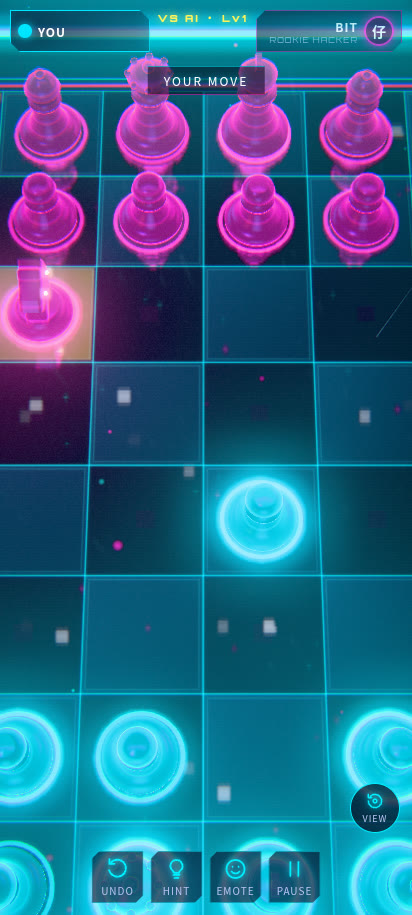
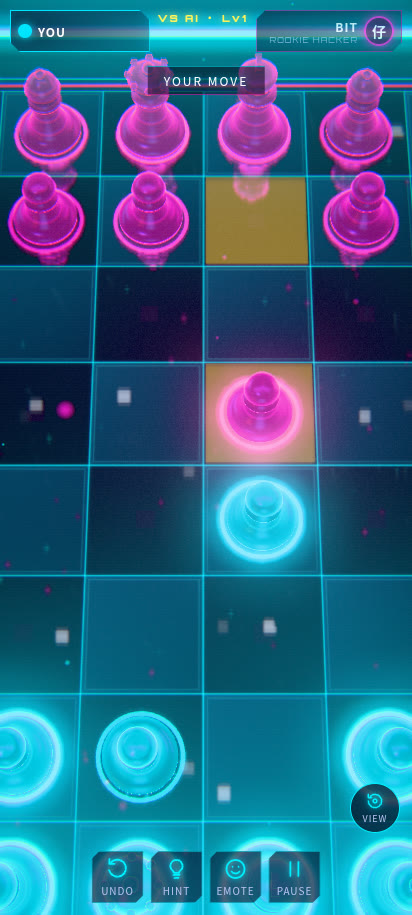
v1.2 camera: one-finger drag rotates/tilts (tap still moves), pinch zoom + two-finger pan, twist bonus, left-drag on desktop; new tip text

diff --git a/js/view.js b/js/view.js
@@ -1,6 +1,6 @@
-// Player camera control for play: pinch zoom, twist / two-finger drag orbit, mouse wheel + right/ctrl-drag,
-// with hard clamps, critically-damped smoothing and a strict tap-vs-gesture classifier so one-finger taps
-// keep selecting / moving pieces. THREE-free (pure state + DOM) so the clamp maths is unit-testable in node.
+// Player camera control for play: ONE-finger drag = orbit (horizontal → azimuth, vertical → tilt), two fingers =
+// pinch zoom + drag pan (+ twist rotate as a bonus), mouse left/right/ctrl-drag = orbit, wheel = zoom, with hard
+// clamps, exponential smoothing and a strict tap-vs-drag classifier so quick taps keep selecting / moving pieces. THREE-free (pure state + DOM) so the clamp maths is unit-testable in node.
 //
 // State is an *offset* on top of the auto-framed rig in main.js:
 //   zoom  multiplier on the fitted distance (1 = whole board framed, < 1 = closer)
@@ -45,6 +45,7 @@ export const isDefaultView = (v, eps = 0.01) => Math.abs(v.zoom - 1) < eps && Ma
  * h.tap(x, y, e)                  a clean one-finger / left-click tap (never fired for gestures)
  * h.zoom(factor, x, y)            multiply zoom (factor < 1 = closer), anchored at screen point
  * h.twist(dRad, x, y)             rotate about the screen point (fingers' rotation)
+ * h.pan(x0, y0, x1, y1)           move the board point under (x0,y0) to (x1,y1) (two-finger drag)
  * h.orbit(dAz, dEl)               orbit around the look target
  * h.gesture(active)               gesture started / ended (for UI, e.g. reveal the reset button)
  * h.down(e)                       any pointerdown (audio unlock)
@@ -67,6 +68,7 @@ export class ViewInput {
     const now = performance.now();
     this.pts.set(e.pointerId, { x: e.clientX, y: e.clientY, x0: e.clientX, y0: e.clientY, t0: now, type: e.pointerType, btn: e.button, mods: e.ctrlKey || e.metaKey });
     if (this.pts.size === 1) {
+      // left button / one finger: tap until it moves past the slop, then orbit. Right / Ctrl-drag: orbit straight away.
       const orbitBtn = e.pointerType === 'mouse' && (e.button === 2 || (e.button === 0 && (e.ctrlKey || e.metaKey)));
       this.mode = orbitBtn ? 'orbit-pending' : (e.pointerType === 'mouse' && e.button !== 0 ? 'ignore' : 'tap');
     } else if (this.pts.size === 2) {
@@ -84,7 +86,7 @@ export class ViewInput {
     const px = p.x, py = p.y; p.x = e.clientX; p.y = e.clientY;
     if (this.mode === 'tap') {
       const slop = p.type === 'mouse' ? TAP.mouseSlop : TAP.touchSlop;
-      if (Math.hypot(p.x - p.x0, p.y - p.y0) > slop) { this.mode = 'drag1'; this.stats.cancelledTaps++; }   // one-finger drag: no camera move, no tap
+      if (Math.hypot(p.x - p.x0, p.y - p.y0) > slop) { this.mode = 'orbit'; this.stats.cancelledTaps++; this.begin(); }   // drag → orbit, never a tap
     } else if (this.mode === 'orbit-pending' || this.mode === 'orbit') {
       if (this.mode === 'orbit-pending' && Math.hypot(p.x - p.x0, p.y - p.y0) > 3) { this.mode = 'orbit'; this.begin(); }
       if (this.mode === 'orbit' && this.h.enabled()) this.h.orbit(-(p.x - px) * GESTURE.orbitPerPx, (p.y - py) * GESTURE.tiltPerPx);
@@ -98,7 +100,7 @@ export class ViewInput {
       if (this.h.enabled()) {
         if (P.zoomOn && d > 1 && P.d > 1) this.h.zoom(P.d / d, m.x, m.y);
         if (P.twistOn) this.h.twist(wrap(an - P.a), m.x, m.y);
-        if (P.dragOn) this.h.orbit(-(m.x - P.m.x) * GESTURE.orbitPerPx, (m.y - P.m.y) * GESTURE.tiltPerPx);
+        if (P.dragOn) this.h.pan(P.m.x, P.m.y, m.x, m.y);
       }
       P.d = d; P.a = an; P.m = m;
     }
@@ -114,9 +116,9 @@ export class ViewInput {
       if (now >= this.suppressUntil && now - p.t0 <= TAP.maxMs) { this.stats.taps++; this.h.tap(e.clientX, e.clientY, e); }
       return;
     }
-    if (this.mode === 'pinch' || this.mode === 'ignore-multi') this.suppressUntil = now + TAP.afterGestureMs;
+    if (this.mode === 'pinch' || this.mode === 'ignore-multi' || this.mode === 'orbit') this.suppressUntil = now + TAP.afterGestureMs;
     if (this.pts.size === 0) { this.mode = 'idle'; this.end(); }
-    else if (this.mode === 'pinch') this.mode = 'ignore-multi';   // one finger left after a pinch: never becomes a tap
+    else if (this.mode === 'pinch') this.mode = 'ignore-multi';   // one finger left after a pinch: never becomes a tap or orbit
     else if (this.mode === 'ignore-multi' && this.pts.size === 2) this.startPinch();
   }
   onCancel(e) { this.pts.delete(e.pointerId); if (this.pts.size === 0) { this.mode = 'idle'; this.end(); } else this.mode = 'ignore-multi'; }

diff --git a/js/strings.js b/js/strings.js
@@ -19,7 +19,7 @@ addStrings({
   sound: ['音效', 'SOUND'], music: ['音樂', 'MUSIC'], haptics: ['震動', 'HAPTICS'], hints: ['提示落點', 'MOVE HINTS'], rotate2p: ['雙人時轉棋盤', 'ROTATE BOARD IN 2P'], on: ['開', 'ON'], off: ['關', 'OFF'],
   privacy: ['私隱政策', 'Privacy'],
   resetView: ['重設視角', 'Reset view'], resetViewShort: ['視角', 'VIEW'],
-  viewTip: ['雙指縮放 · 扭轉旋轉棋盤', 'Pinch to zoom · twist to rotate the board'],
+  viewTip: ['雙指縮放 · 單指拖動旋轉', 'Pinch to zoom · drag to rotate'],
   paused: ['已暫停', 'PAUSED'], resume: ['繼續', 'RESUME'], restart: ['重新開始', 'RESTART'], quit: ['離開', 'QUIT'],
   you: ['你', 'YOU'], p1: ['玩家一', 'PLAYER 1'], p2: ['玩家二', 'PLAYER 2'], player: ['玩家 {n}', 'PLAYER {n}'], ai: ['電腦', 'AI'],
   yourTurn: ['到你', 'YOUR MOVE'], turnOf: ['{n} 嘅回合', "{n}'S TURN"], thinking: ['{n} 諗緊…', '{n} IS THINKING…'],

diff --git a/js/main.js b/js/main.js
@@ -208,6 +208,10 @@ const viewInput = new ViewInput($('scene'), {
   down: () => { audio.init(); if (settings.music) audio.startMusic(); },
   zoom: (f, x, y) => anchored(x, y, () => { view.zoom *= f; }),
   twist: (d, x, y) => anchored(x, y, () => { view.az += d; }),
+  pan: (x0, y0, x1, y1) => {            // two-finger drag: the board point under the fingers follows them (only while zoomed in)
+    const c = targetCam(), a = groundUnder(c, x0, y0), b = groundUnder(c, x1, y1);
+    if (a && b) { view.px += a.x - b.x; view.pz += a.z - b.z; clampView(view, cam.pitch, extOf(board.kind || 'chess')); }
+  },
   orbit: (dAz, dEl) => { view.az += dAz; view.el += dEl; clampView(view, cam.pitch, extOf(board.kind || 'chess')); },
   gesture: (on) => { if (on) hideEmotes(); },
   tap: (x, y) => {

diff --git a/tests/view.py b/tests/view.py
@@ -1,5 +1,5 @@
 """CYBER BOARD camera-control test — headless Chrome, real CDP touch events at 412x915 and mouse/wheel at 1280x800.
-Pinch / twist / two-finger drag clamps, tap-vs-gesture separation, taps still move pieces in all four games
+One-finger drag orbit / pinch zoom / two-finger pan / twist clamps, tap-vs-drag separation, taps still move pieces in all four games
 (incl. tapping a piece's head), reset-view button, battle save/restore of the view. Fails on any console error.
 
     python -m http.server <port>   # from the repo root
@@ -104,11 +104,17 @@ def mobile(p):
     print('     sel after e2 tap:', sel, 'stats', V(pg)['stats'], 'moves', pg.evaluate('__board.ctrl.pos.moves.map(m => m.san).join(" ")'))
     check(pg.evaluate('__board.ctrl.pos.moves.length') >= 1 and pg.evaluate('__board.ctrl.pos.moves[0].san') == 'e4', 'touch taps (8 px jitter) move e2-e4')
     idle(pg)
-    # one-finger drag: no camera move, no tap
+    # one-finger drag = orbit (never a tap / move): start the drag ON a white pawn so a tap would have selected it
     fen = pg.evaluate('__board.fen()'); taps0 = V(pg)['stats']['taps']
-    T.drag1(200, 500, 60, -40); time.sleep(0.3)
+    d2 = pg.evaluate('__board.cellScreen(84)')
+    T.drag1(d2['x'], d2['y'], 120, 0); time.sleep(0.3)
     v = V(pg)['target']
-    check(V(pg)['stats']['taps'] == taps0 and abs(v['zoom'] - 1) < EPS and abs(v['az']) < EPS and pg.evaluate('__board.fen()') == fen, 'one-finger drag = no tap and no camera move')
+    check(V(pg)['stats']['taps'] == taps0 and v['az'] < -0.3 and abs(v['el']) < EPS and pg.evaluate('__board.fen()') == fen and pg.evaluate('__board.ctrl.sel') < 0,
+          f"one-finger horizontal drag rotates (az {math.degrees(v['az']):.0f}°), no tap / selection / move")
+    T.drag1(206, 520, 0, 80); time.sleep(0.3); v2 = V(pg)['target']
+    check(v2['el'] > 0.1 and abs(v2['az'] - v['az']) < EPS and V(pg)['stats']['taps'] == taps0, f"one-finger vertical drag tilts (el +{math.degrees(v2['el']):.0f}°), no tap")
+    settle(pg); pg.screenshot(path=f'{OUT}/mob_view_after_drag_rotate.png')
+    pg.evaluate('__board.resetView(true)'); settle(pg)
     # pinch out (zoom in) toward the board centre
     c = pg.evaluate('__board.screenAt(0,0,0)')
     T.pinch(c['x'], c['y'], 80, 260); settle(pg)
@@ -138,31 +144,40 @@ def mobile(p):
     tap_cell(pg, T, 76); time.sleep(0.8)
     check(pg.evaluate('__board.ctrl.pos.moves.length') == n0 + 1 and pg.evaluate('__board.ctrl.pos.moves[-1] ? 0 : __board.ctrl.pos.moves[__board.ctrl.pos.moves.length-1].san') == 'Nf3', 'zoomed: tap g1 → f3 plays Nf3')
     idle(pg)
-    # twist: clamp ±azMax
+    # two-finger twist (bonus) still rotates
     pg.evaluate('__board.resetView(true)'); settle(pg)
     T.twist(206, 480, 70, 0, 0.6); v = V(pg)['target']
-    check(v['az'] > 0.4, f"twist rotates (az {math.degrees(v['az']):.0f}°)")
-    for _ in range(4): T.twist(206, 480, 70, 0, 1.2)
+    check(v['az'] > 0.4, f"two-finger twist rotates (az {math.degrees(v['az']):.0f}°)")
+    # one-finger drags: azimuth clamps ±azMax
+    for _ in range(4): T.drag1(60, 520, 300, 0)
     settle(pg); v = V(pg)['target']
-    check(abs(v['az'] - L['azMax']) < 1e-3, f"azimuth clamps at +{math.degrees(L['azMax']):.0f}° (got {math.degrees(v['az']):.1f}°)")
+    check(abs(v['az'] + L['azMax']) < 1e-3, f"drag: azimuth clamps at -{math.degrees(L['azMax']):.0f}° (got {math.degrees(v['az']):.1f}°)")
     pg.screenshot(path=f'{OUT}/mob_view_after_twist.png')
-    for _ in range(8): T.twist(206, 480, 70, 0, -1.2)
+    for _ in range(8): T.drag1(360, 520, -300, 0)
     settle(pg); v = V(pg)['target']
-    check(abs(v['az'] + L['azMax']) < 1e-3, f"azimuth clamps at -{math.degrees(L['azMax']):.0f}°")
-    # two-finger vertical drag: tilt clamps
-    for _ in range(5): T.drag2(206, 600, 0, -260)
+    check(abs(v['az'] - L['azMax']) < 1e-3, f"drag: azimuth clamps at +{math.degrees(L['azMax']):.0f}°")
+    for _ in range(4): T.drag1(60, 520, 300, 0)
+    # one-finger vertical drags: tilt clamps
+    for _ in range(5): T.drag1(206, 760, 0, -400)
     settle(pg); v = V(pg)
     check(abs(v['absPitch'] - L['pitchMin']) < 2e-3, f"tilt clamps at {math.degrees(L['pitchMin']):.0f}° elevation (got {math.degrees(v['absPitch']):.1f}°)")
     pg.screenshot(path=f'{OUT}/mob_view_after_lowtilt.png')
     pm = pg.evaluate('__board.pickMatrix()'); print('     tap-target matrix (34° low tilt, az -70°):', pm['total'], 'spots, misses', pm['miss'][:8])
     check(len(pm['miss']) <= pm['total'] * 0.03, 'low-tilt rotated view: ≥ 97 % of tap spots pick their own cell')
-    for _ in range(6): T.drag2(206, 300, 0, 300)
+    for _ in range(6): T.drag1(206, 300, 0, 400)
     settle(pg); v = V(pg)
     check(abs(v['absPitch'] - L['pitchMax']) < 2e-3, f"tilt clamps at {math.degrees(L['pitchMax']):.0f}° (never flips; got {math.degrees(v['absPitch']):.1f}°)")
     pm = pg.evaluate('__board.pickMatrix()'); print('     tap-target matrix (84° top-down, az -70°):', pm['total'], 'spots, misses', pm['miss'][:8])
     check(not pm['miss'], 'top-down rotated view: tap-target matrix clean')
     cy = pg.evaluate('__board.cam()')[0][1]
     check(cy > 0.5, 'camera stays above the board')
+    # two-finger drag pans only while zoomed in
+    pg.evaluate('__board.resetView(true)'); settle(pg)
+    T.drag2(206, 500, 120, 0); v = V(pg)['target']
+    check(abs(v['px']) < EPS and abs(v['pz']) < EPS and abs(v['az']) < EPS, 'two-finger drag at the fit zoom: no pan, no rotation')
+    pg.evaluate('__board.setView({zoom:0.5})'); settle(pg)
+    T.drag2(206, 500, 120, 60); v = V(pg)['target']
+    check(math.hypot(v['px'], v['pz']) > 0.5 and abs(v['az']) < EPS, f"two-finger drag pans while zoomed (pan {v['px']:.2f},{v['pz']:.2f}), no rotation")
     # pinch in: clamps at max distance, pan recentres
     for _ in range(4): T.pinch(206, 480, 360, 60)
     settle(pg); v = V(pg)['target']
@@ -252,6 +267,12 @@ def desktop(p):
     check(abs(V(pg)['target']['zoom'] - L['zoomMax']) < 1e-3, 'wheel zoom clamps at max')
     pg.evaluate('__board.resetView(true)')
     fen = pg.evaluate('__board.fen()'); taps0 = V(pg)['stats']['taps']
+    e2 = pg.evaluate('__board.cellScreen(85)')     # left-drag starting on a pawn: rotates, never selects / moves
+    pg.mouse.move(e2['x'], e2['y']); pg.mouse.down()
+    for k in range(1, 9): pg.mouse.move(e2['x'] + 25 * k, e2['y'] - 5 * k)
+    pg.mouse.up(); v = V(pg)['target']
+    check(v['az'] < -0.5 and V(pg)['stats']['taps'] == taps0 and pg.evaluate('__board.ctrl.sel') < 0 and pg.evaluate('__board.fen()') == fen, f"left-drag rotates (az {math.degrees(v['az']):.0f}°), no selection / move")
+    pg.evaluate('__board.resetView(true)'); time.sleep(0.4)
     pg.mouse.move(640, 400); pg.mouse.down(button='right')
     for k in range(10): pg.mouse.move(640 + 30 * k, 400 + 6 * k)
     pg.mouse.up(button='right'); v = V(pg)['target']

diff --git a/docs/HANDOFF.md b/docs/HANDOFF.md
@@ -28,13 +28,15 @@ zh-HK first + English, endless mode, ads only at natural breaks, Three.js r169 +
 * Extras: check alert (king ring + shockwave + SFX + AI taunt), checkmate drama (slow-mo, glitch, king shatters, red pillar,
   banner), promotion picker (♛♜♝♞), last-move tiles, legal-move dots / capture rings (toggle 提示落點), hint (green), undo,
   local 2P with auto table rotation for chess/xiangqi (toggle 雙人時轉棋盤), piece idle bob, selected lift.
-* **Player camera (v1.1, `js/view.js` + rig in `js/main.js`)** — during play in all four games:
-  * Touch: **pinch** = zoom (anchored: the board point under the fingers stays under them, which is also how you pan),
-    **twist** = rotate around the fingers, **two-finger drag** = orbit (horizontal → azimuth, vertical → tilt).
-    Desktop: **wheel** (and trackpad pinch) = zoom toward the cursor, **right-drag** or **Ctrl/⌘-drag** = orbit;
+* **Player camera (v1.2, `js/view.js` + rig in `js/main.js`)** — during play in all four games:
+  * Touch: **one-finger drag** = rotate / orbit the board (horizontal → azimuth, vertical → tilt; grab-style: drag right
+    and the board turns right, drag down and it tips toward you); **pinch** = zoom (anchored: the board point under the
+    fingers stays under them); **two-finger drag** = pan (only while zoomed in); **twist** = rotate around the fingers (bonus).
+    Desktop: **left-drag** (a click still moves), **right-drag** or **Ctrl/⌘-drag** = orbit; **wheel** (and trackpad
+    pinch) = zoom toward the cursor;
     keys `+`/`-` zoom, `V`/`0` reset. Round **視角 / VIEW** button (bottom-right, aria/title 重設視角 / Reset view via kit
     `data-i18n-attr`) appears whenever the view is not the default and eases back. One-time toast tip on touch devices
-    (`viewTip`). The view resets on every new match / menu.
+    (`viewTip`: 雙指縮放 · 單指拖動旋轉 / Pinch to zoom · drag to rotate). The view resets on every new match / menu.
   * **Limits** (`VIEW_LIMITS`): zoom ×0.40 … ×1.15 of the auto-fit distance (closest: a chess square ≈ 100–130 px on a
     412-px phone; farthest: whole board + rim with margin); azimuth ±70° from the player's seat (added on top of the 2P table
     rotation, so you never end up looking from the opponent's side); absolute elevation 34° … 84° (never edge-on, never past
@@ -43,10 +45,12 @@ zh-HK first + English, endless mode, ads only at natural breaks, Three.js r169 +
   * **Smoothing**: targets are clamped instantly, the camera follows with frame-rate-independent exponential damping
     (rate 14/s ≈ 95 % in 0.2 s). Anchoring is computed on a scratch camera posed at the *target* view, so it stays exact
     while the camera is still catching up.
-  * **Tap vs gesture** (`ViewInput`): a tap = exactly one pointer that moved ≤ 14 px (touch) / 6 px (mouse) and no second
-    finger at any point; a second finger cancels the tap and starts a pinch; pinch / twist / drag each latch only after
-    10 px / 5° / 14 px (jitter filter); after any multi-touch, taps are suppressed until all fingers are up + 260 ms; a
-    one-finger drag does nothing (no accidental camera moves); no hold-time limit (a long press still taps).
+  * **Tap vs drag** (`ViewInput`): a tap = exactly one pointer that moved ≤ 14 px (touch) / 6 px (mouse) and no second
+    finger at any point (no hold-time limit, a long press still taps). Moving past that threshold turns the touch into a
+    rotation drag for the rest of the gesture — it can never become a tap / move, even if it ends on a square — and taps
+    are blocked for 260 ms after it ends. A second finger cancels the tap and starts a pinch; pinch / twist / pan each latch
+    only after 10 px / 5° / 14 px (jitter filter); after any multi-touch, the remaining finger neither taps nor rotates, and
+    taps are blocked until all fingers are up + 260 ms. Sensitivity: 0.0065 rad/px azimuth, 0.0055 rad/px tilt.
     `touch-action: none` on the canvas; context menu disabled on it.
   * **Battles**: gestures are ignored while a capture cinematic runs (taps still skip it); `battle.play` is wrapped to save the
     player view before and restore it after, and the smoothed camera holds still, so the cinematic blends out of — and back
@@ -160,16 +164,19 @@ spec (endless floor), players, planes, humans}`. Controllers talk to the shell o
   fails on any console error. SwiftShader runs at 2–4 FPS so it takes ~8–10 min. It writes PNGs; the committed
   `docs/shots/*.jpg` are the same shots converted to JPEG (q84) to keep the repo small.
 * Before/after on a 412×915 phone: `docs/shots/mob_view_before_after.jpg` (v1.0 · v1.1 default · v1.1 pinched in).
-* `node tests/view.test.mjs` → **19/19** (clamps at every limit for three base pitches, pan scaling, damping convergence /
-  smoothness / frame-rate independence).
-* `/workspace/.venv-pw/bin/python tests/view.py <port> [outdir] [mobile|desktop]` — **52 checks** (36 mobile + 16 desktop). Mobile 412×915 drives real
-  CDP `Input.dispatchTouchEvent` touches: default framing size, taps with 8 px jitter still move (e2-e4), one-finger drag =
-  no tap/no camera, pinch in/out to both zoom clamps (camera distance verified), anchored pinch pans toward the fingers and
-  stays on the board, tap on a knight's *head* in a zoomed + rotated view selects it and plays Nf3, twist to ±70°, two-finger
-  drag to 34° / 84°, tap-target matrix (every cell centre / piece body / crown, 0 misses) in default, low-tilt,
+* `node tests/view.test.mjs` → **30/30** (clamps at every limit for three base pitches, pan scaling, damping convergence /
+  smoothness / frame-rate independence, and the `ViewInput` classifier driven with synthetic pointer events: tap ≤ 14 px,
+  horizontal / vertical one-finger drag → azimuth / tilt with no tap, tap blocked right after a drag and allowed after
+  260 ms, two fingers → zoom + pan with no tap / orbit, drags ignored while disabled (battle), mouse click / left-drag /
+  right-drag).
+* `/workspace/.venv-pw/bin/python tests/view.py <port> [outdir] [mobile|desktop]` — **56 checks** (39 mobile + 17 desktop). Mobile 412×915 drives real
+  CDP `Input.dispatchTouchEvent` touches: default framing size, taps with 8 px jitter still move (e2-e4), a one-finger drag
+  that starts on a pawn rotates (horizontal) / tilts (vertical) without selecting or moving, pinch in/out to both zoom clamps (camera distance verified), anchored pinch pans toward the fingers and
+  stays on the board, tap on a knight's *head* in a zoomed + rotated view selects it and plays Nf3, twist rotates, one-finger drags
+  clamp at ±70° azimuth and 34° / 84° tilt, two-finger drag pans only while zoomed (no rotation), tap-target matrix (every cell centre / piece body / crown, 0 misses) in default, low-tilt,
   top-down-rotated and zoomed-twisted xiangqi views, reset button, pinch during a capture battle is ignored and the view is restored afterwards, and
-  pinch/twist + tap-to-move in xiangqi, flip and sky race. Desktop 1280×800: wheel zoom clamps, right-drag and Ctrl-drag
-  orbit + clamps without tapping, clicks still move in an orbited view (chess, xiangqi, flip, sky race), tap-target
+  pinch/twist + tap-to-move in xiangqi, flip and sky race. Desktop 1280×800: wheel zoom clamps, left-drag starting on a pawn rotates
+  without selecting, right-drag and Ctrl-drag orbit + clamps without tapping, clicks still move in an orbited view (chess, xiangqi, flip, sky race), tap-target
   matrix, `V` resets. Zero console errors. ~8 min.
   Note: touch moves are frame-aligned, so on SwiftShader each move costs a frame (~0.3 s).
 
@@ -192,8 +199,8 @@ Built against **cyber-kit v0.2.1** (tag exists; v0.2.0 + patch: i18n + endless h
 ## 10. Known issues / ideas
 * Xiangqi long-check / long-chase rulings are simplified to the repetition draw.
 * Sky Race has no undo (dice); hint highlights the AI's preferred plane.
-* Camera: no double-tap-to-zoom (it would fight tap-to-select) and no one-finger pan (one finger is reserved for moves);
-  panning comes from anchored pinch / twist. The view is not persisted between matches by design.
+* Camera: no double-tap-to-zoom (it would fight tap-to-select); one finger = taps + rotation, so panning is two-finger
+  drag / anchored pinch. The view is not persisted between matches by design.
 * Performance: the board Reflector renders the scene a second time at half resolution; `?quality=low` disables it. Auto
   pixel-ratio downgrade from the kit is active during play.
 * Ideas: online/async multiplayer, daily puzzle floor, more skins (piece shapes), per-character music stingers, Android packaging

diff --git a/README.md b/README.md
@@ -28,8 +28,8 @@
 
 ## 操作 Controls
 撳棋子再撳目標格（綠點＝可走，紅圈＝可食）。飛行棋撳「擲骰」或者棋盤中間粒骰。對決動畫期間撳任何位置跳過。
-視角：雙指縮放、扭轉旋轉、雙指拖動傾斜／環繞（有上下限，棋盤唔會反轉）；電腦用滑鼠滾輪縮放、右鍵或 `Ctrl`＋拖動旋轉；右下角「視角」掣還原。
-Camera: pinch to zoom, twist to rotate, two-finger drag to orbit/tilt (clamped); desktop wheel zoom + right-drag / Ctrl-drag; the VIEW button resets.
+視角：單指拖動旋轉／傾斜棋盤（輕撳照樣揀棋走棋）、雙指縮放、放大後雙指拖動平移、雙指扭轉亦可旋轉（有上下限，棋盤唔會反轉）；電腦用滑鼠拖動（左鍵／右鍵／`Ctrl`）旋轉、滾輪縮放；右下角「視角」掣還原。
+Camera: drag with one finger to rotate/tilt (a quick tap still moves), pinch to zoom, two-finger drag to pan when zoomed, twist also rotates (all clamped); desktop drag to rotate + wheel zoom; the VIEW button resets.
 鍵盤：`Esc`/`P` 暫停 · `U` 悔棋 · `H` 提示 · `Space`/`Enter` 擲骰／跳過動畫 · `+`/`-` 縮放 · `V` 還原視角。
 
 ## 網址參數 URL flags
@@ -42,8 +42,8 @@ Three.js r169 + [cyber-kit](https://github.com/fung2222/cyber-kit) **v0.2.1**（
 ```bash
 python3 -m http.server 18977            # any free port, then open http://127.0.0.1:18977/
 node tests/rules.test.mjs               # 82 rules / perft / AI / tower tests
-node tests/view.test.mjs                # 19 camera clamp / damping tests
+node tests/view.test.mjs                # 30 camera clamp / damping / tap-vs-drag tests
 /workspace/.venv-pw/bin/python tests/smoke.py 18977   # headless Chrome smoke test, writes docs/shots/
-/workspace/.venv-pw/bin/python tests/view.py 18977    # CDP touch pinch/twist/tap camera test
+/workspace/.venv-pw/bin/python tests/view.py 18977    # CDP touch drag/pinch/tap camera test
 ```
 詳細交接文件：[docs/HANDOFF.md](docs/HANDOFF.md) · 私隱政策：[privacy.html](privacy.html)
